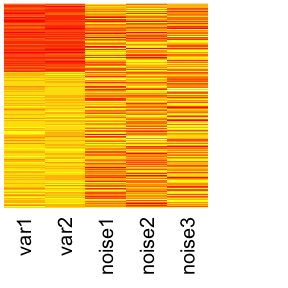
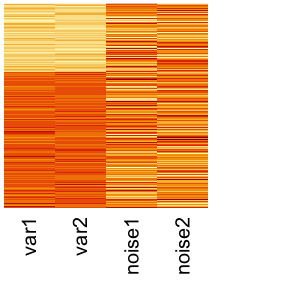
remove dependency from Rmosek

diff --git a/README.md b/README.md
@@ -4,7 +4,7 @@ MKKC Package
 Overview
 ========
 
-The **MKKC** package performs multiple kernel *k*-means clustering on a multi-view data. The method is suggested by suggested by Bang and Wu (2018). The main function-`mkkc` efficiently and robustly utilizes complementary information collected from different sources and optimizes the kernel coefficients for different views in multiple kernel learning. This package also includes 18 multi-view simulation data generated for illustration purpose. We will give a short tutorial on using **MKKC** on the simulation data and assess how robustly it performs when noise and redundancy are present in the multi-view data.
+The **MKKC** package performs the robust multiple kernel *k*-means clustering using min-max optimization. The method is proposed by Bang and Wu (2018). The main function-`mkkc` performs a robust clustering on multi-view data collected from different sources. This package also includes 18 multi-view simulation data generated for illustration purpose. We will give a short tutorial on using **MKKC** on the simulation data and assess how robustly it performs when noise and redundancy are present in the multi-view data.
 
 Installation
 ============
@@ -13,10 +13,9 @@ Users can install the package from [github](https://github.com/SeojinBang) as fo
 
 ``` r
 install.packages("devtools")
+library(devtools)
 devtools::install_github("SeojinBang/MKKC")
 ```
-
-A recent version of *Rmosek* (&gt;= 8.0.46) is also required. See the [Rmosek installation instructions](http://docs.mosek.com/8.0/rmosek/install.html) for details on installing for your platform.
 
 Usage
 =====
@@ -24,7 +23,7 @@ Usage
 `mkkc` performs the multiple kernel K-means clustering on multi-view data. The usage is
 
 ``` r
-mkkc(K, centers, iter.max, A, bc, epsilon)
+mkkc(K, centers, iter.max, epsilon)
 ```
 
 where
@@ -32,11 +31,9 @@ where
 -   `K` is *N* × *N* × *P* array containing *P* kernel matrices with size *N* × *N*.
 -   `centers` is the number of clusters, say *k*.
 -   `iter.max` is the maximum number of iterations allowed. The default is 10.
--   `A` is *m* × *P* linear constraint matrix where P is the number of views and m is the number of constrints.
--   `bc` is 2 × *m* numeric matrix with the two rows representing the lower and upper constraint bounds.
 -   `epsilon` is a onvergence threshold. The default is 10<sup>−4</sup>.
 
-If there is no prior information to indicate relative importance of the views, one can perform the clustering analysis using the most basic call to `mkkc` without specifying `A` and `bc`:
+One can perform the clustering analysis using the most basic call to `mkkc`:
 
 ``` r
 mkkc(K, centers)
@@ -72,11 +69,11 @@ We first load the **MKKC** package:
 library(MKKC)
 ```
 
-In this example, we use a simulation data set `simBnoise` which is composed of two partial views. Each partial view only conveys partial information so that each view alone cannot completely detect the three clusters. The first view (View 1) is able to detect the first cluster but not able to identify the difference between the second and third cluster. The second view (View 2) is able to detect the third cluster but cannot identify the difference between the first and second cluster. Additionally, View 1 has 10 noise variables that have no information about the clusters, while we will use only 3 noise variables added to View 1.
+In this example, we use a simulation data set `simBnoise` which is composed of two partial views. Each partial view only conveys partial information so that each view alone cannot completely detect the three clusters. The first view (View 1) is able to detect the first cluster but not able to identify the difference between the second and third cluster. The second view (View 2) is able to detect the third cluster but cannot identify the difference between the first and second cluster. Additionally, View 1 has 10 noise variables that have no information about the clusters, while we will use only 2 noise variables added to View 1.
 
 ``` r
 truelabel <- simBnoise$true.label
-n.noise <- 3                                    # number of noises to be added
+n.noise <- 2                                    # number of noises to be added
 dat1 <- simBnoise$view1[,c(1:(2 + n.noise))]    # view 1
 dat2 <- simBnoise$view2                         # view 2
 ```
@@ -106,9 +103,7 @@ dat2 <- kernelMatrix(rbf, dat2)   # kernel matrix from View 2
 Construct Multi-view Data
 -------------------------
 
-Centering and scaling of kernel matrices in multi-view learning allow multiple views comparable with each other. Hence, we recommand to standardize the kernel matrices before combining them. Each kernel matrix is centered by
-**K** ← **K** – **J**<sub>*n*</sub>**K** – **K** **J**<sub>*n*</sub> + **J**<sub>*n*</sub>**K** **J**<sub>*n*</sub>
- and scaled by **K** ← *n***K**/tr(**K**) where **J**<sub>*n*</sub> = **1**<sub>*n*</sub>**1**<sub>*n*</sub><sup>*T*</sup>/*n* and *n* is the number of samples.
+Centering and scaling of kernel matrices in multi-view learning allow multiple views comparable with each other. Hence, we recommand to standardize the kernel matrices before combining them. Each kernel matrix is centered by **K** ← **K** – **J**<sub>*n*</sub>**K** – **K** **J**<sub>*n*</sub> + **J**<sub>*n*</sub>**K** **J**<sub>*n*</sub> and scaled by **K** ← *n***K**/tr(**K**) where **J**<sub>*n*</sub> = **1**<sub>*n*</sub>**1**<sub>*n*</sub><sup>*T*</sup>/*n* and *n* is the number of samples.
 
 We standardize the kernel matrices using a function `StandardizeKernel` provided by **MKKC**. With the standarized kernel matrices, we construct a multi-view data as a 300 × 300 × 2 array.
 
@@ -128,6 +123,14 @@ We perform the clustering using the most basic call to `mkkc`. It requires a mul
 res <- mkkc(K = K, centers = 3)
 ```
 
+    ## iter  1 ... theta  0.5 0.5 
+    ## iter  2 ... theta  0.9554583 0.295126 
+    ## iter  3 ... theta  0.9059099 0.4234705 
+    ## iter  4 ... theta  0.9140981 0.405493 
+    ## iter  5 ... theta  0.913377 0.4071147 
+    ## iter  6 ... theta  0.913442 0.4069689 
+    ## iter  7 ... theta  0.9134362 0.406982
+
 `res` is an object of class `MultipleKernelKmeans` which has a `print` and a `coef` method. We can obtain a vector of clustering labels by `res$cluster` and kernel coefficients of the two views by `coef(res)`.
 
 A comprehensive summary of the clustering is displayed with use of the print function:
@@ -137,38 +140,38 @@ print(res)
 ```
 
     ## 
-    ## Multiple kernel K-means clustering with 3 clusters of sizes  104, 96, 100 
+    ## Multiple kernel K-means clustering with 3 clusters of sizes  100, 103, 97 
     ## 
     ## Kernel coefficients of views:
-    ## [1] 0.9342697 0.3565671
+    ## [1] 0.9134362 0.4069820
     ## 
     ## Clustering vector:
-    ##   [1] 3 3 3 3 3 3 3 3 3 3 3 3 3 3 3 3 3 3 3 3 3 3 3 3 3 3 3 3 3 3 3 3 3 3 3
-    ##  [36] 3 3 3 3 3 3 3 3 3 3 3 3 3 3 3 3 3 3 3 3 3 3 3 3 3 3 3 3 3 3 3 3 3 3 3
-    ##  [71] 3 3 3 3 3 3 3 3 3 3 3 3 3 3 3 3 3 3 3 3 3 3 3 3 3 3 3 3 3 3 1 1 1 1 1
-    ## [106] 1 2 2 1 1 1 1 1 1 1 1 1 1 1 1 1 1 1 1 1 1 1 1 1 1 1 1 1 1 1 1 1 1 1 1
-    ## [141] 1 1 1 1 1 1 1 2 1 1 1 1 1 1 1 1 1 1 1 1 1 1 1 1 1 1 1 1 1 1 2 1 2 1 1
-    ## [176] 1 1 1 1 1 1 1 1 1 1 1 1 1 1 1 1 1 2 1 1 1 1 1 1 1 2 2 2 2 2 2 2 2 2 2
-    ## [211] 2 2 2 2 1 2 2 2 2 2 1 2 2 1 2 2 2 2 2 2 2 2 2 2 1 2 2 1 2 2 2 2 2 2 2
-    ## [246] 2 2 2 2 2 2 2 2 2 2 2 2 1 2 2 2 2 1 2 2 2 2 2 2 2 1 1 2 1 2 2 2 2 2 2
+    ##   [1] 1 1 1 1 1 1 1 1 1 1 1 1 1 1 1 1 1 1 1 1 1 1 1 1 1 1 1 1 1 1 1 1 1 1 1
+    ##  [36] 1 1 1 1 1 1 1 1 1 1 1 1 1 1 1 1 1 1 1 1 1 1 1 1 1 1 1 1 1 1 1 1 1 1 1
+    ##  [71] 1 1 1 1 1 1 1 1 1 1 1 1 1 1 1 1 1 1 1 1 1 1 1 1 1 1 1 1 1 1 2 3 3 3 3
+    ## [106] 3 3 2 2 3 3 3 3 3 3 3 3 3 3 3 3 3 3 3 3 3 3 3 3 3 3 3 3 3 3 3 3 3 3 3
+    ## [141] 3 3 3 3 3 3 3 3 3 3 3 3 3 3 3 3 3 3 3 3 3 3 3 3 3 3 3 3 3 3 3 3 3 3 3
+    ## [176] 3 3 3 3 3 3 3 3 3 3 3 3 3 3 3 3 3 3 3 3 3 3 3 3 3 2 2 2 2 2 2 2 2 2 2
+    ## [211] 2 2 2 2 2 2 2 2 2 2 2 2 2 2 2 2 2 2 2 2 2 2 2 2 2 2 2 2 2 2 2 2 2 2 2
+    ## [246] 2 2 2 2 2 2 2 2 2 2 2 2 2 2 2 2 2 2 2 2 2 2 2 2 2 2 2 2 2 2 2 2 2 2 2
     ## [281] 2 2 2 2 2 2 2 2 2 2 2 2 2 2 2 2 2 2 2 2
     ## 
     ## Within cluster sum of squares by cluster:
     ##  cluster1  cluster2  cluster3 
-    ## 0.3437935 0.3158945 0.3279382 
-    ## (between_SS / total_SS =   23.5  %)
+    ## 0.3103318 0.3285893 0.2897978 
+    ## (between_SS / total_SS =   29.7  %)
     ## 
     ## Within cluster sum of squares by cluster for each view:
     ##        cluster1  cluster2  cluster3
-    ## view1 0.3291147 0.2917875 0.3068691
-    ## view2 0.1018366 0.1213974 0.1156576
+    ## view1 0.2882098 0.3045793 0.2710080
+    ## view2 0.1156576 0.1237784 0.1038114
     ## 
     ## Available components:
     ##  [1] "cluster"         "totss"           "withinss"       
     ##  [4] "withinsscluster" "withinssview"    "tot.withinss"   
     ##  [7] "betweenssview"   "tot.betweenss"   "clustercount"   
     ## [10] "coefficients"    "size"            "iter"           
-    ## [13] "call"
+    ## [13] "H"               "call"
 
 It displays kernel coefficients, clustering vector (clustering label assigned to the samples), within cluster sum of squares by cluster, and within cluster sum of squares by cluster for each view.
 
